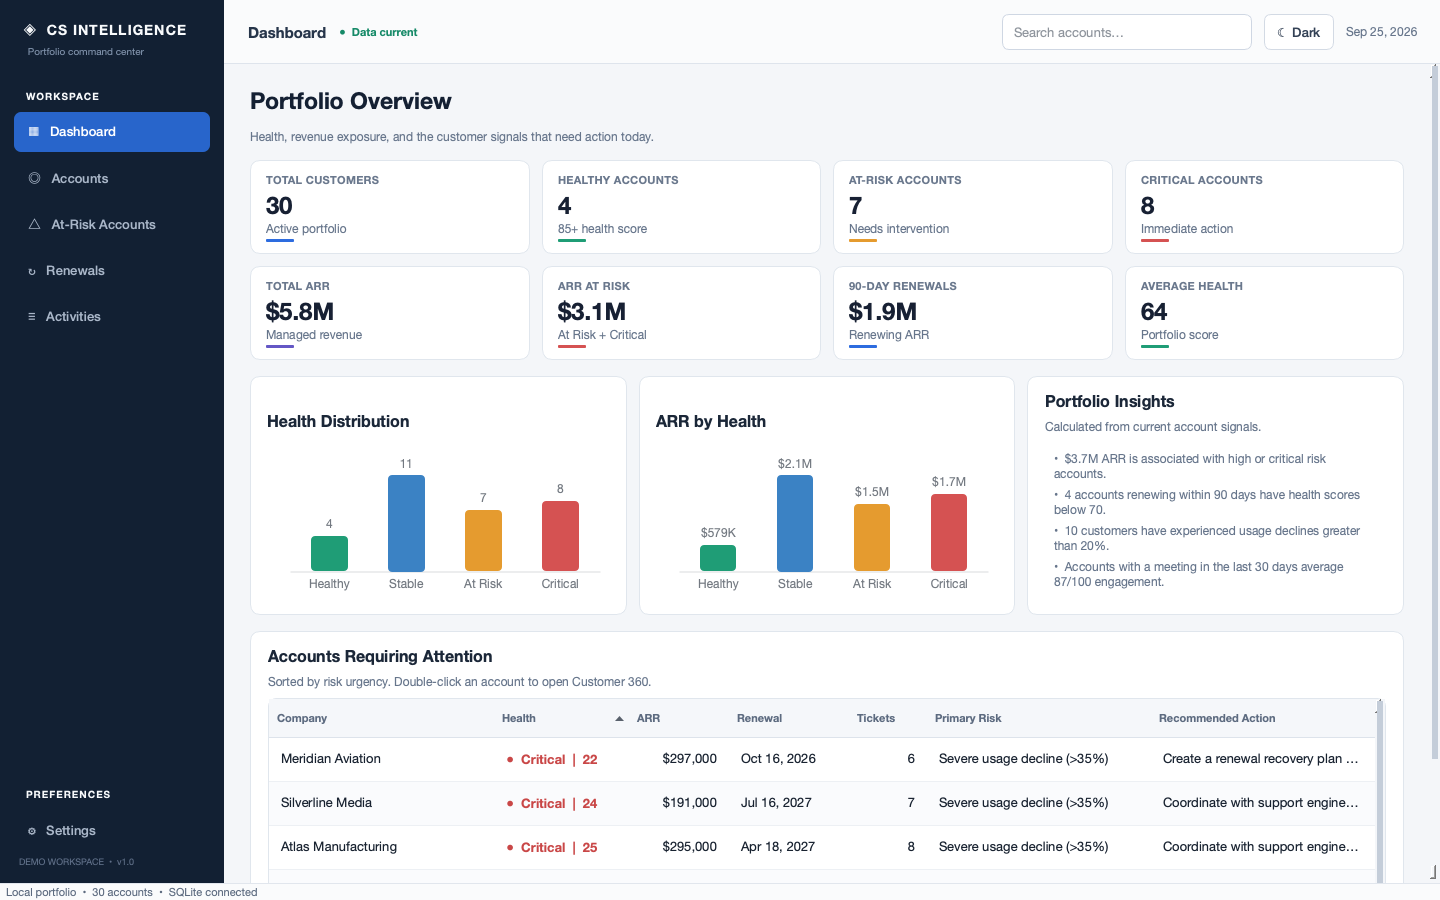
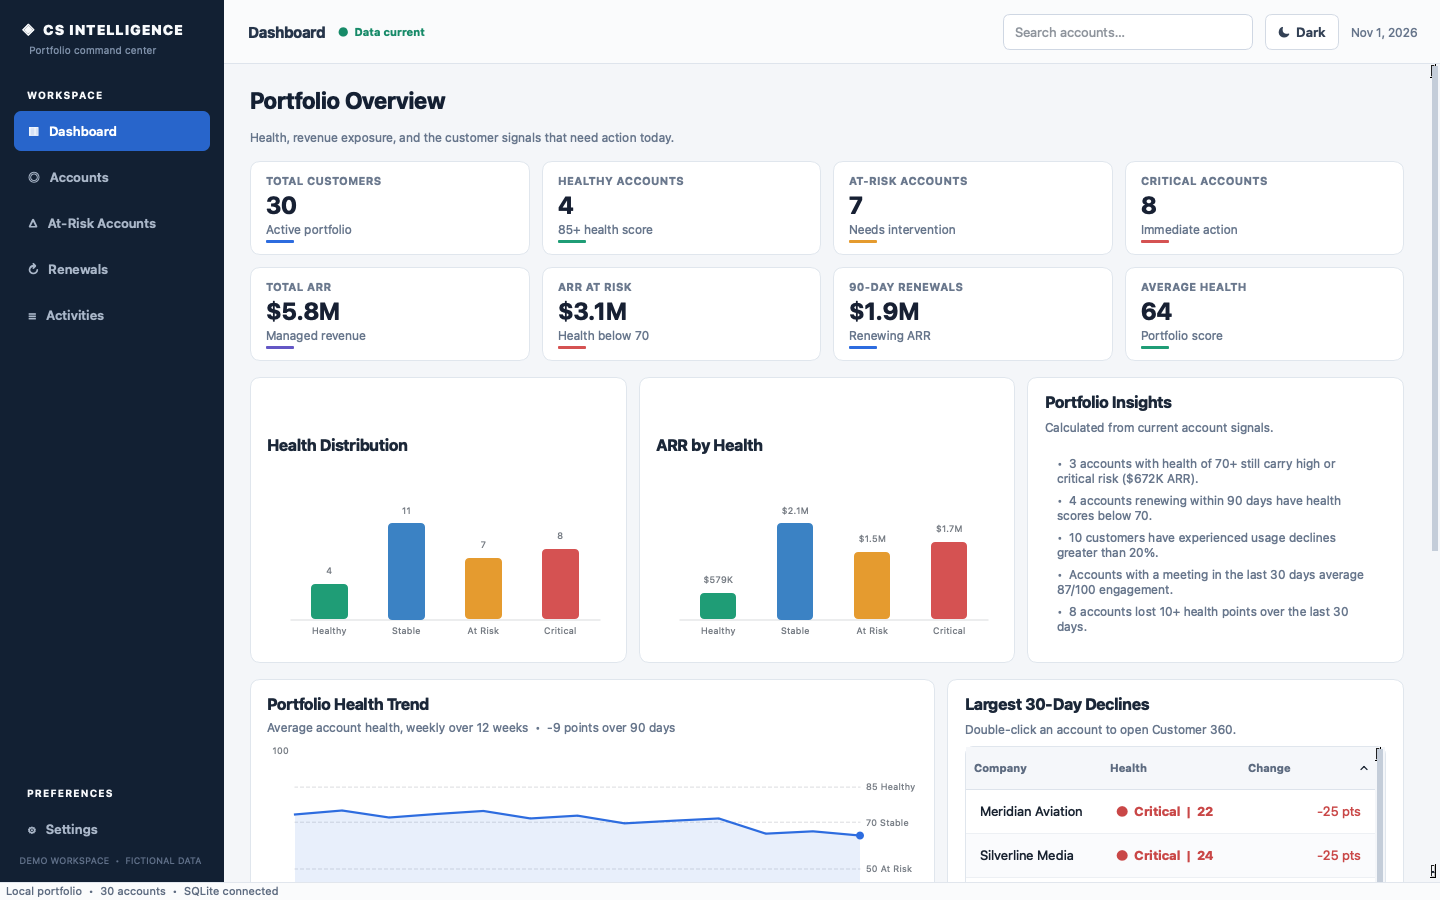
Make Startup CEO Simulator the main featured project
Reorder the featured projects, sync project descriptions with each
repo's current README, and refresh the three featured screenshots.

diff --git a/index.html b/index.html
@@ -188,14 +188,27 @@
       <div class="leadership-grid">
         <article class="leadership-card featured-project-card reveal">
           <div class="featured-project-copy">
-            <p class="card-kicker">Main featured project · Python · PySide6 · SQLite</p>
+            <p class="card-kicker">Main featured project · MBA strategy simulation · Python · PySide6</p>
+            <h3>Startup CEO Simulator</h3>
+            <p>Created an offline MBA strategy simulation where players lead a fictional SaaS company through 12 quarters, setting price, marketing, product investment, hiring, and funding through a transparent rules engine. Seeded market events, board dilemmas, three board objectives, and an exportable PDF board report make each run an interactive case study.</p>
+            <p class="project-relevance"><strong>Business relevance:</strong> Shows how pricing, hiring, product investment, and funding trade off growth, runway, and founder ownership.</p>
+            <a class="button secondary" href="https://github.com/bardakanian/startup-ceo-simulator" target="_blank" rel="noopener noreferrer">View main project on GitHub <span aria-hidden="true">↗</span></a>
+          </div>
+          <a class="featured-project-preview" href="https://github.com/bardakanian/startup-ceo-simulator" target="_blank" rel="noopener noreferrer" aria-label="View the Startup CEO Simulator project on GitHub">
+            <img src="startup-ceo-simulator.png" alt="Startup CEO Simulator strategy canvas showing company metrics, a board decision, management choices, and expected business effects" width="1440" height="940" loading="lazy" decoding="async">
+          </a>
+        </article>
+
+        <article class="leadership-card featured-project-card customer-success-card reveal">
+          <div class="featured-project-copy">
+            <p class="card-kicker">Customer success analytics · Python · PySide6 · SQLite</p>
             <h3>Customer Success Intelligence Dashboard</h3>
-            <p>Built a desktop dashboard using fictional SaaS customer data, with explainable health scores, renewal-risk alerts, Customer 360 views, and recommended actions.</p>
+            <p>Built a desktop dashboard using fictional SaaS customer data, with explainable health scores, 12-week health trends, multi-signal risk detection, ARR-at-risk and renewal-window analysis, Customer 360 views, and recommended actions.</p>
             <p class="project-relevance"><strong>Business relevance:</strong> Demonstrates account prioritization and analysis of recurring revenue at risk.</p>
-            <a class="button secondary" href="https://github.com/bardakanian/customer-success-intelligence-dashboard" target="_blank" rel="noopener noreferrer">View main project on GitHub <span aria-hidden="true">↗</span></a>
+            <a class="button secondary" href="https://github.com/bardakanian/customer-success-intelligence-dashboard" target="_blank" rel="noopener noreferrer">View the dashboard on GitHub <span aria-hidden="true">↗</span></a>
           </div>
           <a class="featured-project-preview" href="https://github.com/bardakanian/customer-success-intelligence-dashboard" target="_blank" rel="noopener noreferrer" aria-label="View the Customer Success Intelligence Dashboard project on GitHub">
-            <img src="customer-success-intelligence-dashboard.png" alt="Customer Success Intelligence Dashboard showing portfolio health, revenue exposure, risk insights, and accounts requiring attention" width="1440" height="900" loading="lazy" decoding="async">
+            <img src="customer-success-intelligence-dashboard.png" alt="Customer Success Intelligence Dashboard showing portfolio KPIs, health and ARR distribution, portfolio insights, and a 12-week health trend" width="1440" height="900" loading="lazy" decoding="async">
           </a>
         </article>
 
@@ -203,25 +216,12 @@
           <div class="featured-project-copy">
             <p class="card-kicker">Business decision support · Python · PySide6 · Monte Carlo</p>
             <h3>MarginPilot</h3>
-            <p>Built a local-first profit scenario analyzer with live KPIs, break-even analysis, sensitivity charts, and reproducible Monte Carlo simulations.</p>
+            <p>Built a local-first profit scenario analyzer with live KPIs, optional price elasticity, break-even and price-sensitivity analysis, reproducible Monte Carlo simulations, and one-page PDF executive summaries.</p>
             <p class="project-relevance"><strong>Business relevance:</strong> Connects pricing, demand, cost, and marketing assumptions to financial tradeoffs.</p>
             <a class="button secondary" href="https://github.com/bardakanian/MarginPilot" target="_blank" rel="noopener noreferrer">View MarginPilot on GitHub <span aria-hidden="true">↗</span></a>
           </div>
           <a class="featured-project-preview" href="https://github.com/bardakanian/MarginPilot" target="_blank" rel="noopener noreferrer" aria-label="View the MarginPilot project on GitHub">
-            <img src="marginpilot-dashboard.png" alt="MarginPilot dashboard comparing current and proposed profit scenarios with financial KPIs and charts" width="1440" height="900" loading="lazy" decoding="async">
-          </a>
-        </article>
-
-        <article class="leadership-card featured-project-card startup-project-card reveal">
-          <div class="featured-project-copy">
-            <p class="card-kicker">MBA strategy simulation · Python · PySide6 · SaaS</p>
-            <h3>Startup CEO Simulator</h3>
-            <p>Created an offline MBA simulation where users lead a fictional SaaS company through 12 quarters using a transparent rules engine.</p>
-            <p class="project-relevance"><strong>Business relevance:</strong> Explores how pricing, hiring, product investment, and funding affect growth and cash flow.</p>
-            <a class="button secondary" href="https://github.com/bardakanian/startup-ceo-simulator" target="_blank" rel="noopener noreferrer">View Startup CEO Simulator on GitHub <span aria-hidden="true">↗</span></a>
-          </div>
-          <a class="featured-project-preview" href="https://github.com/bardakanian/startup-ceo-simulator" target="_blank" rel="noopener noreferrer" aria-label="View the Startup CEO Simulator project on GitHub">
-            <img src="startup-ceo-simulator.png" alt="Startup CEO Simulator strategy canvas showing company metrics, management decisions, and estimated business effects" width="1440" height="940" loading="lazy" decoding="async">
+            <img src="marginpilot-dashboard.png" alt="MarginPilot dashboard comparing current and proposed profit scenarios with financial KPIs, a price-sensitivity curve, and a management assessment" width="1440" height="900" loading="lazy" decoding="async">
           </a>
         </article>
 
@@ -231,16 +231,16 @@
         </div>
 
         <article class="leadership-card supporting-project-card reveal">
-          <p class="card-kicker">Product ownership · Python desktop application · macOS</p>
+          <p class="card-kicker">Product ownership · Python · PySide6 · macOS &amp; Windows</p>
           <h3>On This Day Photo Viewer</h3>
-          <p>Built and iteratively refined a macOS application that indexes local photos and videos by capture date, then resurfaces memories from the same calendar day in prior years. Media indexing, thumbnails, and preferences remain on the device, with no accounts, analytics, advertising, or cloud uploads.</p>
+          <p>Built and iteratively refined a desktop application that indexes local photos and videos by capture date, then resurfaces memories from the same calendar day in prior years, with a full-window viewer, a searchable video library, and library insights. Media indexing, thumbnails, and preferences remain on the device, with no accounts, analytics, advertising, or cloud uploads.</p>
           <a class="button secondary" href="https://github.com/bardakanian/on-this-day-photo-viewer" target="_blank" rel="noopener noreferrer">View project on GitHub <span aria-hidden="true">↗</span></a>
         </article>
 
         <article class="leadership-card supporting-project-card reveal">
           <p class="card-kicker">Python · PySide6 · SQLite · Desktop media library</p>
           <h3>Photo Library</h3>
-          <p>Built a fast, private desktop library for browsing a folder of photos and videos by month and year, with albums, date-aware search, Live Photo playback, library insights, a zoomable photo viewer, and in-app video playback. A virtualized grid stays smooth with 50,000+ items, the library updates automatically when files change, and indexing, thumbnails, and playback all stay on the device.</p>
+          <p>Built a fast, private desktop library for browsing folders of photos and videos by month and year, with albums, date-aware search, Live Photo playback, library insights, a zoomable photo viewer, and in-app video playback. A virtualized grid stays smooth with 50,000+ items, the library updates automatically when files change, and indexing, thumbnails, and playback all stay on the device.</p>
           <a class="button secondary" href="https://github.com/bardakanian/PhotoLibrary" target="_blank" rel="noopener noreferrer">View project on GitHub <span aria-hidden="true">↗</span></a>
         </article>
 

diff --git a/styles.css b/styles.css
@@ -184,8 +184,8 @@ h3 { font-size: 1.25rem; }
 .featured-project-copy > p:not(.card-kicker) { color: var(--muted); }
 .project-relevance { padding-left: 1rem; border-left: 3px solid var(--accent); }
 .project-relevance strong { color: var(--text); }
-.marginpilot-card { background: var(--surface-soft); }
-.startup-project-card { background: var(--surface); }
+.customer-success-card { background: var(--surface-soft); }
+.marginpilot-card { background: var(--surface); }
 .additional-projects-heading { grid-column: 1 / -1; margin-top: 1.5rem; padding-top: 1rem; border-top: 1px solid var(--line); }
 .additional-projects-heading h3 { margin: .25rem 0 0; font-size: 1.55rem; }
 .supporting-project-card { display: flex; flex-direction: column; align-items: flex-start; }
